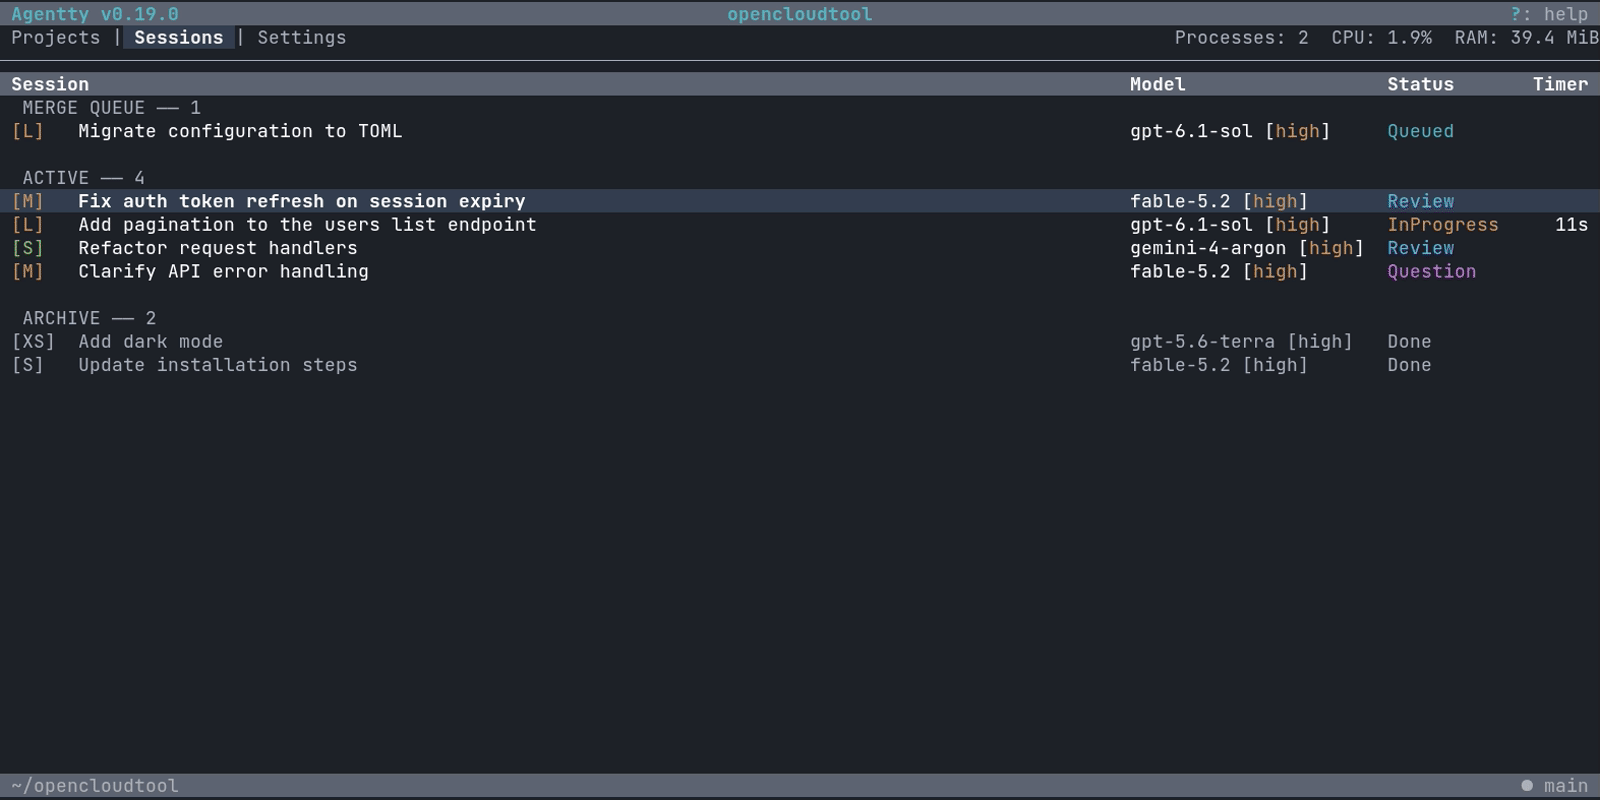
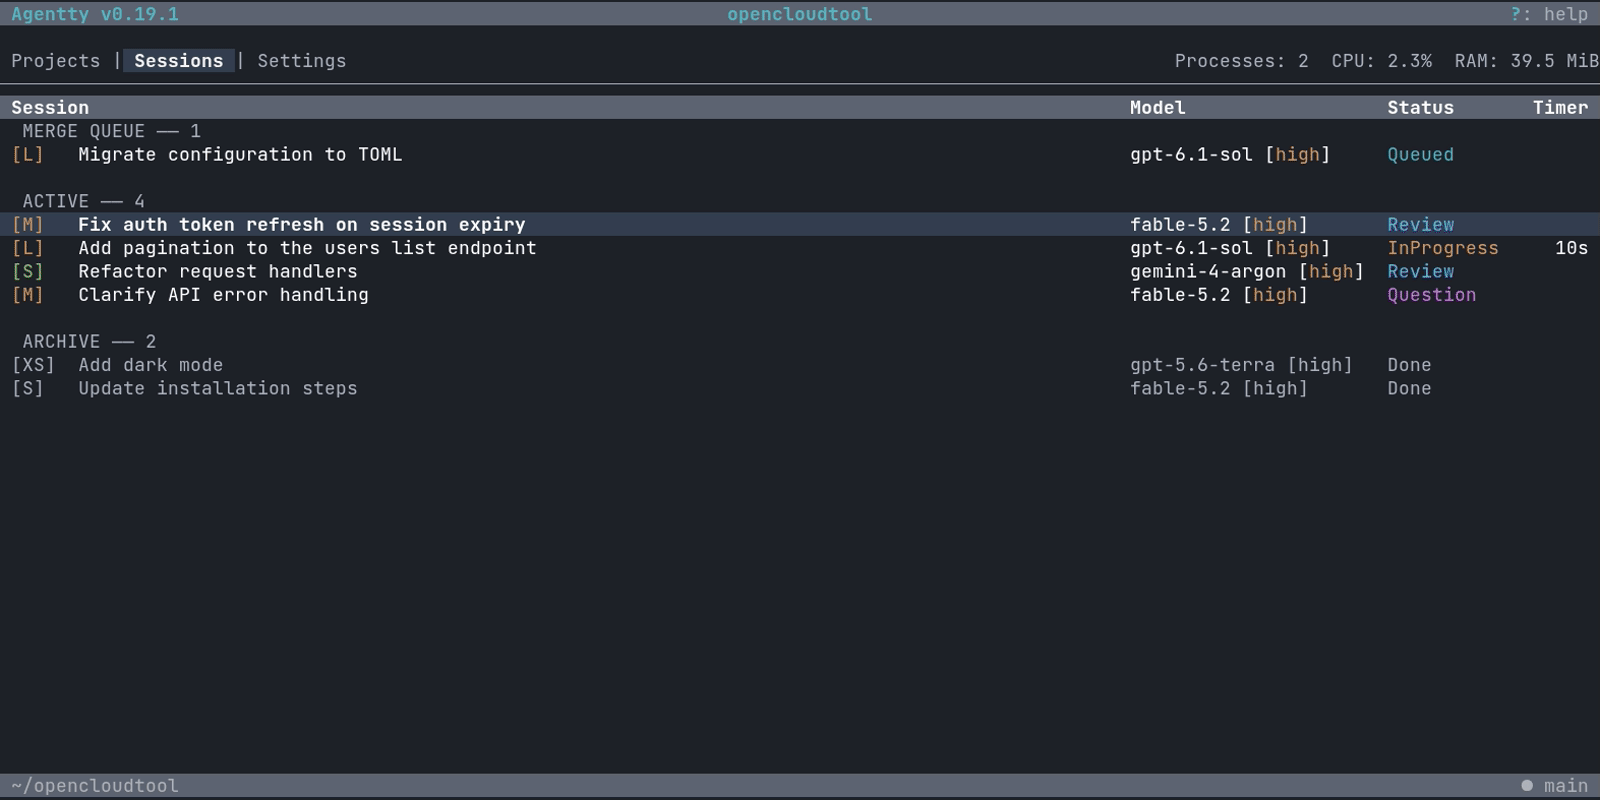
Bump workspace version to 0.19.1
- Set the workspace package version and internal crate dependency versions to 0.19.1 in Cargo.toml
- Update Cargo.lock package versions to 0.19.1 to match
- Add the v0.19.1 section to CHANGELOG.md
- Refresh the demo and feature GIFs and PNG captures under docs/site/static

diff --git a/CHANGELOG.md b/CHANGELOG.md
@@ -7,6 +7,59 @@ this project adheres to [Semantic Versioning](https://semver.org/spec/v2.0.0.htm
 
 ## [Unreleased]
 
+## [v0.19.1] - 2026-11-15
+
+### Added
+
+- `agentty`: let review watch answer comments from allowlisted review bots, handle a
+  failing check and its matching comment together, and rerun unfixed failed checks after
+  fix turns that push no new commit.
+- `agentty`: ask whether to submit unsent diff line comments, with a preview, when
+  leaving the session diff page.
+- `agentty`: allow pasting images into question answers, and show the agent and model in
+  the graph composer title.
+- `agentty`: add the permission mode to turn telemetry and attribute tool spans,
+  including native harness tool spans, to their run, naming Codex commands and file
+  changes.
+- `agentty`: classify `agentty_failure` events by failure category and `startup` or
+  `runtime` stage, and mark launches and failures with `ci` and `interactive` flags.
+
+### Changed
+
+- `agentty`: center the project name in the top status bar, and size the help popup to
+  its content with a `q` close hint.
+- `agentty`: render graph proposal previews as Markdown and show sessions as in progress
+  during graph generation and replies.
+- `agentty`: return to the session view after applying slash settings, list model and
+  slash command notices in the session action queue, and preselect `Yes` in the review
+  watch confirmation.
+- `agentty`: store draft attachments in the session row so a project's `.agentty/`
+  folder holds only configuration, and animate the nerpa tail.
+- workspace: add module docs to every Rust file, and add cataloged hooks for affected
+  package checks, serialized container E2E runs, and changed-file `rustfmt`.
+- workspace: update GitHub Actions and the `jsonschema` and `uuid` dependencies, and
+  upload E2E test results to Trunk.
+- workspace: let the `e2e-container` hook run ignored asset generators in the `e2e` and
+  `showcase` targets, and add a versioned site image refresh step to the `bump-version`
+  skill.
+- release: bump workspace crate metadata and lockfile package versions to `0.19.1`.
+
+### Fixed
+
+- `agentty`: keep focused reviews fresh after rebase-only diff changes.
+- `agentty`: give remote `fetch`, `ls-remote`, `pull`, and `push` commands a five-minute
+  timeout so slow but healthy transfers do not fail.
+- `agentty`: stop read-only runs from attempting shell commands they cannot use.
+- `agentty`: let resumed review watches act on the first sync pass after startup instead
+  of up to a minute later.
+- workspace: scope validation fingerprints to this checkout's Git configuration, and run
+  the shared review deadline test on a paused clock so it no longer flakes.
+
+### Contributors
+
+- @dependabot
+- @minev-dev
+
 ## [v0.19.0] - 2026-11-14
 
 ### Added
